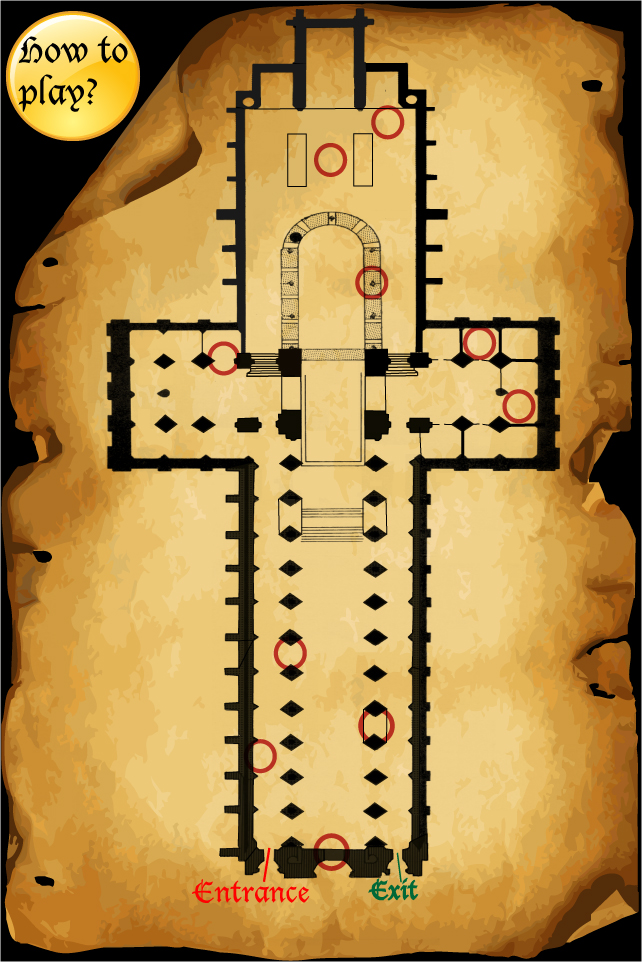
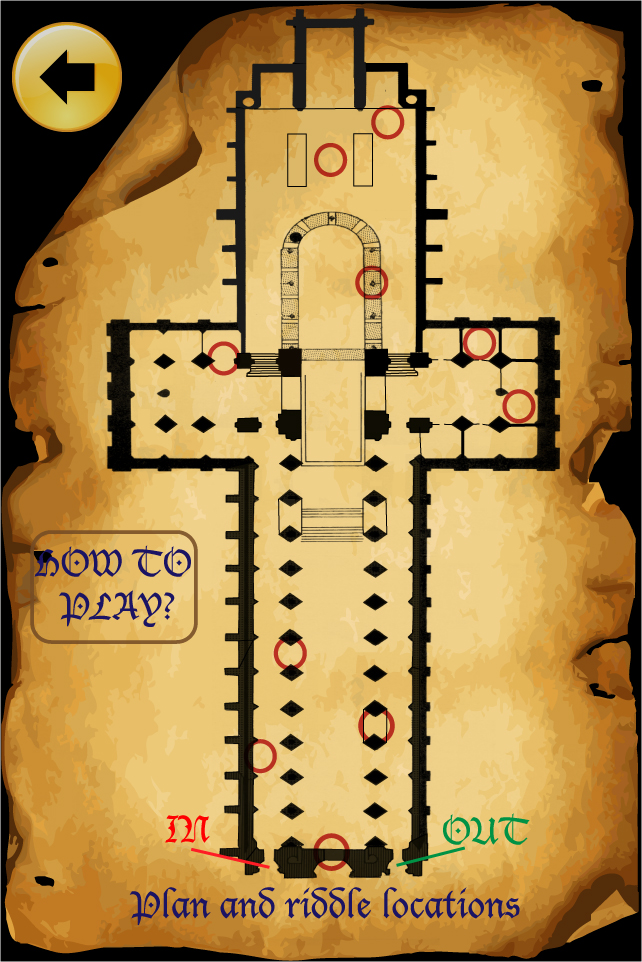
added some functionallity to the score screen. Also added in the new howToPlay button and functionallity. Need to work on completing score screen functionallity next

Changed region(s): [[0.1869, 0.842, 0.81, 0.9667], [0.0312, 0.5301, 0.3115, 0.6861], [0.0, 0.0, 0.2181, 0.1559]]

diff --git a/public/js/script.js b/public/js/script.js
@@ -12,8 +12,8 @@ $(document).ready(function loader() {
     urlGetter();
     buttons();
     answerDetect();
-    scoreGetter();
-      
+    scoreSorter(); 
+
     hide_screens();
     show_screen($url);
 });
@@ -164,34 +164,58 @@ function mapIcons(){
 
 };
 
-function scoreGetter(){
-    
-    $scoreData = localStorage;
-    //console.log($scoreData);
-    scoreSorter();
-};
-
 function scoreSorter(){
-// instantiated in scoreGetter();
-   
-    for (var i = 0; i < localStorage.length; i++) {
-        console.log(localStorage);
-    };
+        
+        // window.localStorage?
+        $scoreData = window.localStorage;
 
-    //console.log($scoreData.riddle1);
+        $score1 = $scoreData['riddle1'];
+        $score2 = $scoreData['riddle2'];
 
+        switch($score1) {
+            case 'correct':
+                $scoreImage1 = ('<img src="img/h/final/happy.jpg">');
+                break;
+            
+            case 'incorrect':
+                $scoreImage1 = ('<img src="img/h/final/sad.jpg">');
+                break;
+
+            default:
+                $scoreImage1 = 'un-attempted'; 
+        };
+        $('#score1').text('riddle 1 = '+ $scoreImage1);
+
+        switch($score2) {
+            case 'correct':
+                $scoreImage2 = ('img/h/final/happy.png');
+                break;
+            
+            case 'incorrect':
+                $scoreImage2 = ('img/h/final/sad.png');
+                break;
+
+            default:
+                $scoreImage2 = 'un-attempted';
+        };
+        $('#score2').attr('src', $scoreImage2);
 };
 
 function buttons(){
+    
+    $('.howToPlay').click(function(){
+        hide_screens();
+        show_screen('howToPlay');
+    });
 
     $('.map').click(function(){
 
         mapIcons();
-
+        
         switch($currentScreen) {
             case 'map':
                 hide_screens();
-                show_screen('howToPlay');
+                show_screen($url);
                 break;
             
             case 'clue1':

diff --git a/public/css/style.css b/public/css/style.css
@@ -361,6 +361,18 @@ span
     opacity: 0.4;
 }
 
+.howToPlay
+{
+    z-index: 1;
+    height: 60px;
+    width: 85px;
+    position: absolute;
+    margin-left: 15px;
+    margin-top: 264px;
+    background-color: blue;
+    opacity: 0.4;
+}
+
 /*  Buttons
 ---------------------------------------------------------------------- */
 #spot1
@@ -414,23 +426,33 @@ span
 }
 
 
+/*  Score Screen
+---------------------------------------------------------------------- */
+#score1
+{
 
+}
+
+#score2
+{
+
+}
 
 
 /*
- * Media queries for responsive design https://github.com/shichuan/mobile-html5-boilerplate/wiki/The-Style
+ * media queries for responsive design https://github.com/shichuan/mobile-html5-boilerplate/wiki/the-style
  */
 
 
-/* Styles for desktop and large screen ----------- */
+/* styles for desktop and large screen ----------- */
 
 /*styles for 800px and up!*/
 @media only screen and (min-width: 800px) {
-  /* Styles */
+  /* styles */
 }/*/mediaquery*/
 
 
-/* iPhone 4, Opera Mobile 11 and other high pixel ratio devices ----------- */
+/* iphone 4, opera mobile 11 and other high pixel ratio devices ----------- */
 @media
 only screen and (-webkit-min-device-pixel-ratio: 1.5),
 only screen and (-o-min-device-pixel-ratio: 3/2),

diff --git a/public/index.html b/public/index.html
@@ -112,6 +112,7 @@
                 <div class="screen" id="map">
                     <div class="map"></div> 
                     <div class="clue"></div>
+                    <div class="howToPlay"></div>
                     <div id="spot1">
                         <!-- Swithun --> 
                     </div>
@@ -134,18 +135,15 @@
 
                 <div class="screen" id="score">
 
-                    <span id="scoreResult"></span>
+                    <div id="scoreResult">
 
-                    <span>1</span>
-                    <span>2</span>
-                    <span>3</span>
-                    <span>4</span>
-                    <span>5</span>
-                    <span>6</span>
-                    <span>7</span>
-                    <span>8</span>
-                    <span>9</span>
-                    <span>10</span>
+                        <h1>?/10</h1>
+
+                        <img id="score1">
+                        <img src="" id="score2">
+                        
+                    </div>
+
                 </div>
 
             </div> <!-- end of main-->
